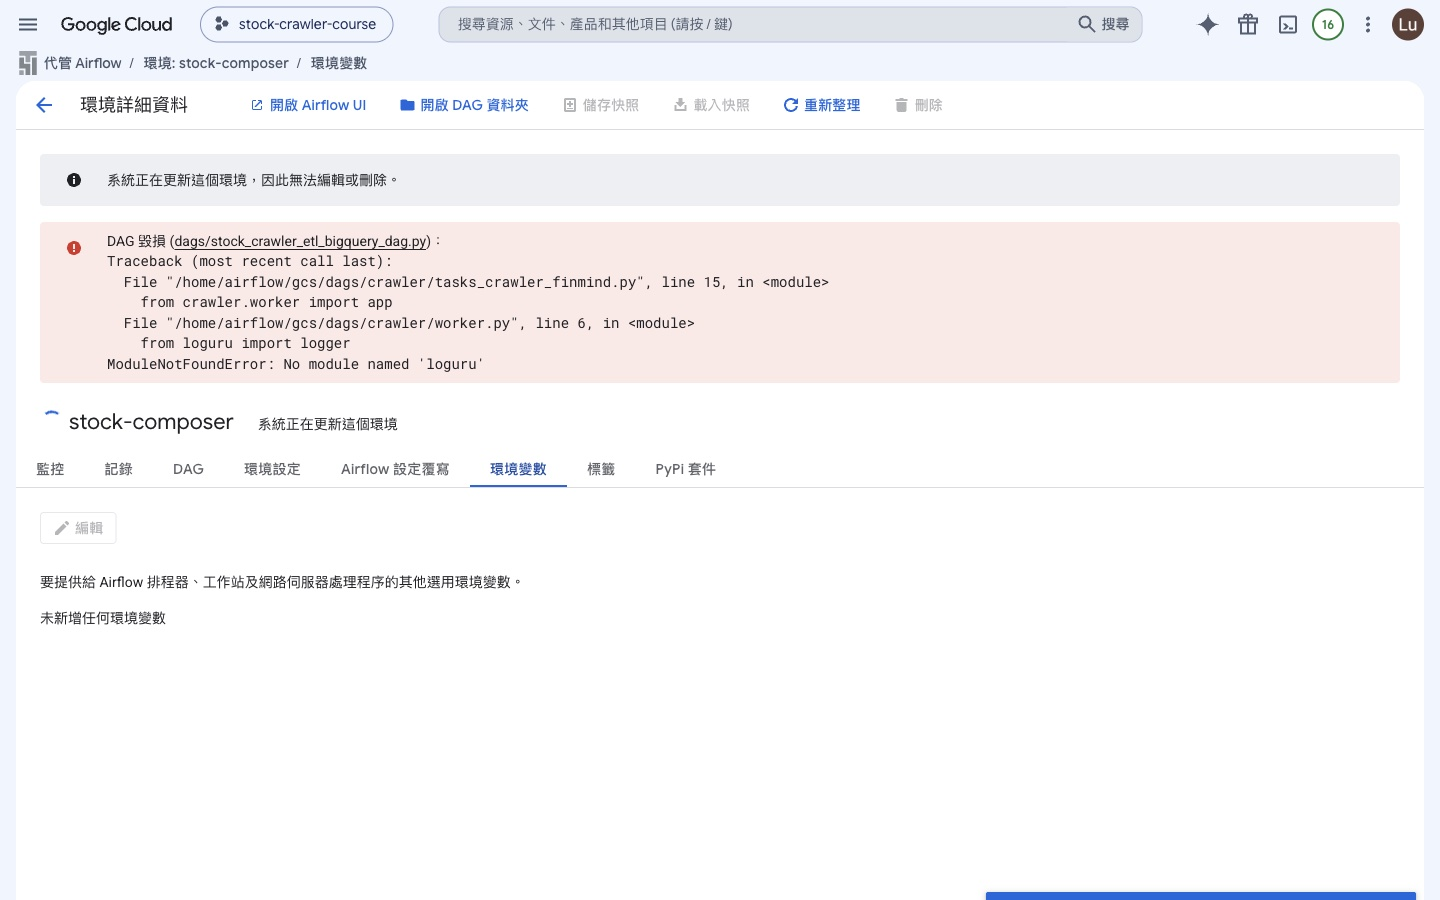
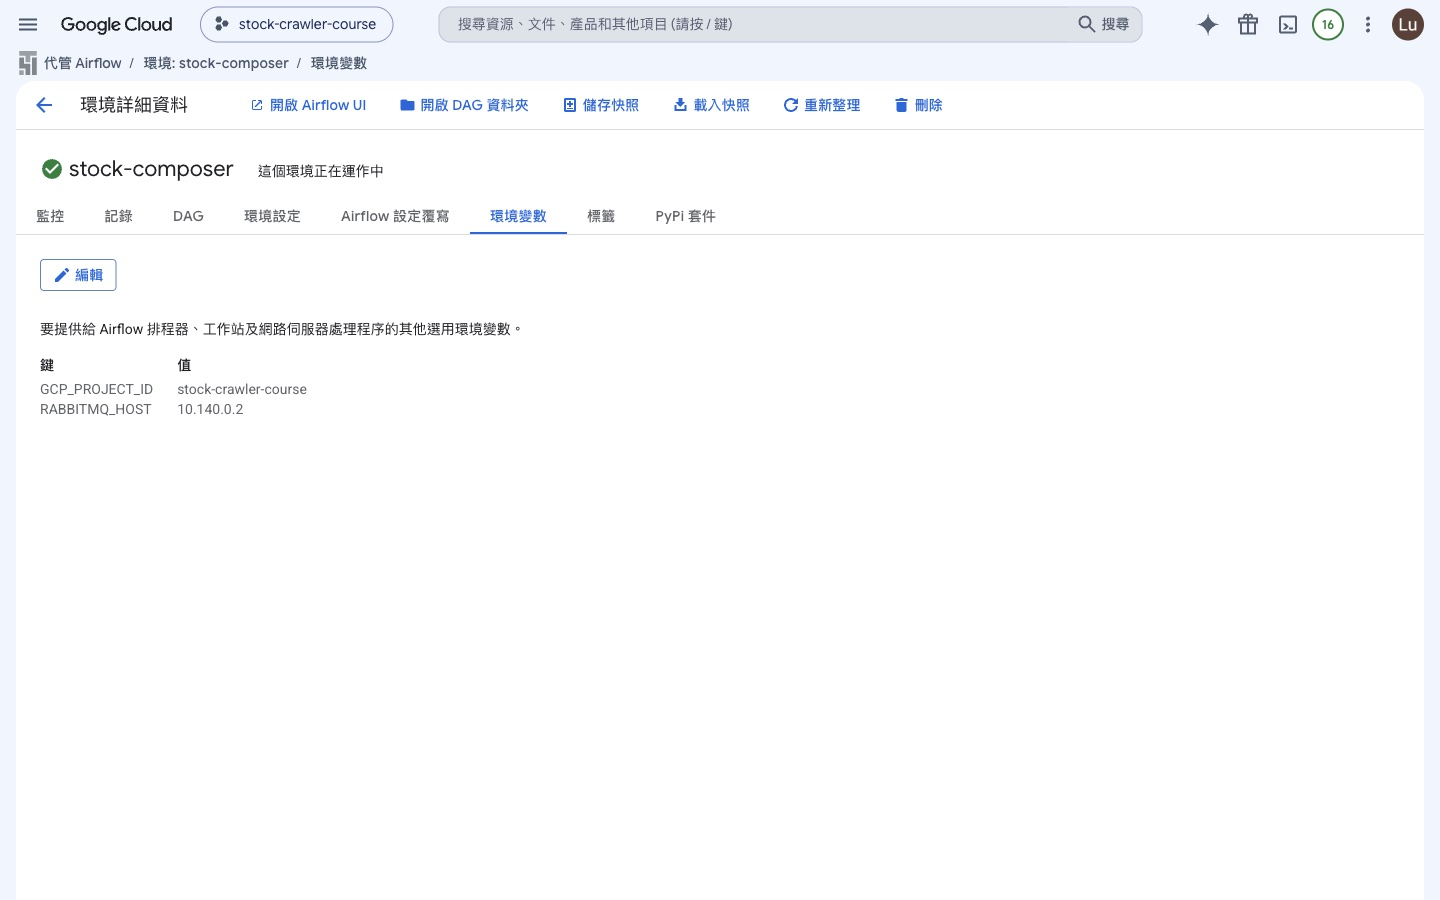
docs: 手冊17 Part C 改走 VPC attachment 正門——零開門、零查 IP，全流程重新實測通過
- C-2 建立指令加 --network=default --subnetwork=default（掛 VPC attachment）,
  說明段與表單對照表、網路區塊截圖同步補上
- C-5 環境變數 6 個砍到 2 個（RABBITMQ_HOST=VM1 內部 IP 查值、GCP_PROJECT_ID）,
  MYSQL_* 全刪——用到它們的程式只在 VM2 worker 執行, DAG 不連 MySQL
- C-6 從「開兩扇門」重寫為「驗證網路」: 內部互連走 default-allow-internal,
  探測 DAG 瘦身為單一 try_rabbitmq 驗證工具; 舊路（公網探測 IP＋白名單）
  與 Cloud SQL Connector 標準做法收進附註
- C-8 拿掉防火牆刪除步驟（沒開過門）; attachment 隨環境刪除自動清除
- 排錯表、開工佔位符註記、圖10 說明、三件事、本章總結同步對齊
- 實測紀錄: 零開門 MQ_CONNECT=OK; 主線 DAG success; raw +3485、stage/app 穩定;
  環境已刪

diff --git a/課程手冊/課程手冊17 - 每日資料線_Airflow排程與Composer.md b/課程手冊/課程手冊17 - 每日資料線_Airflow排程與Composer.md
@@ -55,7 +55,7 @@ flowchart TD
 
 ## 一步一步
 
-> 指令裡的 `{...}` 是佔位符，換值時大括號要一起刪（第 16 章開工段的同一條慣例）。本章 C-6 的探測 DAG 是 Python 檔，裡面的佔位符同樣要換乾淨再上傳。
+> 指令裡的 `{...}` 是佔位符，換值時大括號要一起刪（第 16 章開工段的同一條慣例）。本章 C-6 的探測 DAG 是 Python 檔，裡面的 `{VM1內部IP}` 佔位符同樣要換乾淨再上傳。
 
 開工前先喚醒系統。照第 16 章收工段的 SOP，外加一步驗證：
 
@@ -272,7 +272,7 @@ bq query --nouse_legacy_sql \
 
 把 Part B 剛跑過的 `stock_bigquery_etl_dag` 原封不動搬到 Composer 上執行一次，用來對照託管與自架的差別。**做完立刻刪除環境**，它按小時計費。
 
-> 雙寫版的 DAG 第一個 task 要發任務到 VM1 的 RabbitMQ——Composer 跑在 Google 託管的環境裡，不在你的 VPC 內，所以除了 Cloud SQL 的授權網路（C-6），**RabbitMQ 的 5672 也要對 Composer 的對外 IP 開一條防火牆規則**（C-6 一併處理，示範完刪掉）。這是「託管服務在你網路外面」帶來的第二個網路功課。
+> 雙寫版的 DAG 第一個 task 要發任務到 VM1 的 RabbitMQ——Composer 跑在 Google 託管的環境裡，本來不在你的 VPC 內。這個網路功課用「**建立環境時掛上你的 VPC**」（C-2 的 `--network`/`--subnetwork` 兩個參數）一次解決：掛上之後 Composer 打過來的流量走你子網路的**內部 IP**，`default-allow-internal` 天生放行——不用查它的對外 IP、不用開任何防火牆。C-6 只剩驗證。
 
 #### Composer：託管版的 Airflow
 
@@ -352,8 +352,11 @@ gcloud composer environments create stock-composer \
   --image-version=composer-3-airflow-2 \
   --environment-size=small \
   --service-account={專案編號}-compute@developer.gserviceaccount.com \
+  --network=default --subnetwork=default \
   --async
 ```
+
+`--network=default --subnetwork=default` 是本章的關鍵參數：**把環境掛進你的 VPC**（Composer 會在你的專案建立一個 network attachment，並在子網路裡保留 4 個 IP）。掛上之後，DAG 連你 VPC 裡的服務（VM1 的 RabbitMQ）走**內部網路**，跟 VM2 連 VM1 是同一條路——這讓 C-6 的網路功課幾乎消失。不帶這兩個參數的話，Composer 從公網連進來、來源 IP 是 Google 自動配發且查不到的值，就得走「探測 IP＋開防火牆白名單」的繞路（C-6 附註）。
 
 `--async` 讓指令立刻返回，環境在背景建立，需要 20-30 分鐘——它在準備一整套跑在 GKE 上的 Airflow。查進度：
 
@@ -374,12 +377,17 @@ gcloud composer environments list --locations=asia-east1
 | 映像檔版本 | `composer-3-airflow-2.x`（安全） | 保持 **airflow-2** 開頭的 | `--image-version` |
 | 服務帳戶 | 需選擇 | Compute Engine 預設服務帳戶 | `--service-account` |
 | 環境資源 | 小 | 保持「小」 | `--environment-size=small` |
+| 網路設定 | 未掛 VPC | 選 `default` 網路與子網路 | `--network` / `--subnetwork` |
 
 **映像檔版本下拉是本表單最大的坑**：Airflow 3 的映像排在最上面，預設值雖然是 airflow-2，手滑選到 airflow-3 課程 DAG 一上傳就 import error（Part C 開頭的 Airflow 2/3 對照表）：
 
 ![映像版本下拉](images/ch17/13-Console映像版本下拉Airflow3陷阱.jpg)
 
 ![表單填好的樣子](images/ch17/14-Console建立表單填好.jpg)
+
+表單的「網路設定」區塊就是 `--network`/`--subnetwork` 的表單版——點「顯示網路設定」展開後，選 `default` 網路與子網路：
+
+![建立表單網路區塊](images/ch17/19-Console建立表單網路區塊.jpg)
 
 STATE 從 `CREATING` 變成 `RUNNING` 才算建好。建好之後 Console 上（≡ →「代管 Airflow」）看得到這一列——服務版本 3、Airflow 版本、以及右邊三個入口：**Airflow 網頁伺服器**（C-3 那個網址）、**DAG 清單**、**DAGs 資料夾**（就是下一步要上傳的那個 bucket）：
 
@@ -481,21 +489,17 @@ gcloud composer environments update stock-composer --location=asia-east1 \
 
 #### C-5 套用環境變數
 
-DAG 要發任務到 RabbitMQ、連 Cloud SQL、知道 BigQuery 專案，這些值在自架環境是 `.env` 給的，在 Composer 是環境設定的一部分。四個值照第 16 章 Part E 的紀律**全部用指令查、不手抄**——先取進 shell 變數（只存在這個終端機、不落地成檔案），再一次餵給 update：
+DAG 在 Composer 上需要的環境變數只有**兩個**：發任務要知道 RabbitMQ 在哪（`RABBITMQ_HOST`）、transform 要知道 BigQuery 專案（`GCP_PROJECT_ID`）。自架環境 `.env` 裡的 MYSQL_* 這裡**不用設**——用到它們的程式碼（`upload_data_to_mysql`）只在 VM2 的 worker 上執行，DAG 從頭到尾不連 MySQL。
+
+兩個值照第 16 章 Part E 的紀律用指令查、不手抄。**`RABBITMQ_HOST` 填 VM1 的內部 IP**——C-2 掛了 VPC，Composer 連過來走內部網路，跟 VM2 連 VM1 是同一顆 IP：
 
 ```bash
-# RABBITMQ_HOST 要的是 VM1 的「外部」IP——Composer 不在你的 VPC 裡，內部 IP 對它不通
-# （natIP 就是外部那顆；這點跟第 16 章 VM2 用內部 IP 相反，網路位置不同）
-VM1_IP=$(gcloud compute instances describe stock-crawler-vm --zone=asia-east1-b --format='value(networkInterfaces[0].accessConfigs[0].natIP)')
-SQL_IP=$(gcloud sql instances describe stock-mysql --format='value(ipAddresses[0].ipAddress)')
-DB_PW=$(gcloud secrets versions access latest --secret=mysql-password)
+RMQ=$(gcloud compute instances describe stock-crawler-vm --zone=asia-east1-b --format='value(networkInterfaces[0].networkIP)')
 PROJ=$(gcloud config get-value project)
 
 gcloud composer environments update stock-composer --location=asia-east1 \
-  --update-env-variables=RABBITMQ_HOST=$VM1_IP,MYSQL_HOST=$SQL_IP,MYSQL_ACCOUNT=root,MYSQL_PASSWORD=$DB_PW,MYSQL_PORT=3306,GCP_PROJECT_ID=$PROJ
+  --update-env-variables=RABBITMQ_HOST=$RMQ,GCP_PROJECT_ID=$PROJ
 ```
-
-密碼向 Secret Manager 取（第 16 章 D-4 的同一個來源），不寫死在指令裡。順帶一個提醒：`--update-env-variables` 用逗號分隔多個變數——密碼含逗號或等號會把這個參數切壞，這是「密碼只用大小寫英數字」規範的又一個理由。
 
 這是一次環境更新，要等幾分鐘，不是改完立刻生效。設定結果在環境詳情頁的「**環境變數**」分頁看得到（在這頁用「編輯」改也等效，一樣觸發環境更新）：
 
@@ -503,116 +507,57 @@ gcloud composer environments update stock-composer --location=asia-east1 \
 
 漏掉 `GCP_PROJECT_ID` 的話，`config.py` 拿到空字串，兩個 transform task 會因為表名少了專案段（`` `.stage.stock_price_daily` ``）而報 SQL 語法錯誤——task 紅掉，補上環境變數重觸發即可。（雙寫那半邊不受 Composer 的變數影響：實際寫入的是 VM2 的 worker，它讀的是自己 `.env` 裡的專案 ID。）
 
-#### C-6 讓 Composer 連得到 Cloud SQL 與 RabbitMQ（開兩扇門）
+#### C-6 驗證網路：Composer 連得到 RabbitMQ 嗎
 
-先一句話講清楚這一步在做什麼：**Composer 是你 VPC 外面的「外人」**，而 DAG 要連的兩個服務都只對認識的 IP 開門——Cloud SQL 的 3306 認授權網路、VM1 RabbitMQ 的 5672 認防火牆規則。自架 Airflow 沒這個問題（它就在 VM1 上）；換 Composer 執行，來源 IP 變成一個你不知道的值。所以這一步三個動作：**① 問出 Composer 的 IP → ② 把它加進兩張門禁名單 → ③ 驗證門真的開了**。
-
-**為什麼 IP 要用「問」的**：Public IP 環境的對外連線走 Google **自動配發**的公有 IP——`environments describe` 沒有這個欄位，Console 環境頁也看不到。官方要「可預知的固定 IP」的做法是把環境接進自己的 VPC 改 Private IP，超出本示範的範圍。也因為是自動配發，**這顆 IP 不保證永遠不變**——示範環境活不過一小時無妨，真實系統要走 Private IP 的路。
-
-**動作①：用探測 DAG 讓 Composer 自己說出 IP**。這支一次性 DAG 有三個 task：第一個開 `ifconfig.me` 問自己的對外 IP，後兩個分別對 Cloud SQL 的 3306 與 RabbitMQ 的 5672 做純 TCP 連線測試——它同時就是動作③要重複使用的驗證工具。
+C-2 掛了 VPC 之後，這一節**沒有任何門要開**——Composer 打過來的是你子網路的內部流量，`default-allow-internal` 天生放行 5672；Cloud SQL 更是從頭到尾不關 DAG 的事（連它的是 VM2 的 worker，第 16 章就授權好了）。但「應該通」和「真的通」是兩回事，用一支一次性的探測 DAG 驗證：
 
 ```python
-# probe_network_dag.py：查 Composer 的對外 IP，並測試 Cloud SQL 與 RabbitMQ 連線
+# probe_network_dag.py：驗證 Composer 經 VPC attachment 連得到 VM1 的 RabbitMQ
 from datetime import datetime
 
 from airflow import DAG
 from airflow.operators.python import PythonOperator
 
 
-def egress_ip():
-    import urllib.request
-
-    ip = urllib.request.urlopen("https://ifconfig.me/ip", timeout=20).read().decode()
-    print(f"EGRESS_IP={ip}")
-    return ip
-
-
-def _probe(label, host, port):
+def try_rabbitmq():
     import socket
 
     s = socket.socket()
     s.settimeout(15)
     try:
-        s.connect((host, port))
-        print(f"{label}=OK")
+        s.connect(("{VM1內部IP}", 5672))
+        print("MQ_CONNECT=OK")
     except Exception as e:
-        print(f"{label}=FAIL {type(e).__name__}: {e}")
+        print(f"MQ_CONNECT=FAIL {type(e).__name__}: {e}")
     finally:
         s.close()
 
 
-def try_mysql():
-    _probe("TCP_CONNECT", "{CloudSQL 公用 IP}", 3306)
-
-
-def try_rabbitmq():
-    _probe("MQ_CONNECT", "{VM1 外部 IP}", 5672)
-
-
 with DAG("probe_network_dag", start_date=datetime(2024, 1, 1),
          schedule_interval=None, catchup=False) as dag:
-    PythonOperator(task_id="egress_ip", python_callable=egress_ip) >> \
-        PythonOperator(task_id="try_mysql", python_callable=try_mysql) >> \
-        PythonOperator(task_id="try_rabbitmq", python_callable=try_rabbitmq)
+    PythonOperator(task_id="try_rabbitmq", python_callable=try_rabbitmq)
 ```
 
-兩個 try 都只做 TCP 連線測試，不需要帳號密碼——連得上代表網路層通了，連不上會是逾時。把網路問題跟帳號密碼問題分開驗證，排錯時才知道是哪一層出事。
+只做 TCP 連線測試、不帶帳號密碼——把「網路通不通」跟「帳密對不對」分開驗證。注意它**連線失敗 task 也不會紅**（結果印進 log，不丟例外），`OK` 或 `FAIL` 要到 log 裡看。
 
-注意這支 DAG 的設計：**連線失敗 task 也不會紅**——`_probe` 把結果印進 log 而不是丟例外，所以 UI 上兩次 run 都是綠的，`FAIL` 或 `OK` 要到 log 裡看（下面的 `gcloud logging read`）。它是量測工具，不是驗收關卡：
-
-![探測 DAG 頁面](images/ch17/18-Composer探測DAG頁.jpg)
-
-上傳、觸發，然後讀 log。**Composer 3 的任務 log 送到 Cloud Logging，不放在 bucket 裡**：
+上傳、觸發、讀 log。**Composer 3 的任務 log 送到 Cloud Logging，不放在 bucket 裡**：
 
 ```bash
+gcloud storage cp probe_network_dag.py {你的DAGs bucket}/
+
 gcloud composer environments run stock-composer --location=asia-east1 \
   dags trigger -- probe_network_dag
 
-# 三個 task 的輸出各讀一次，過濾字串要跟程式裡印的關鍵字對上
-gcloud logging read 'resource.type="cloud_composer_environment" AND textPayload:"EGRESS_IP="' \
-  --limit=1 --freshness=10m --format="value(textPayload)"
-
-gcloud logging read 'resource.type="cloud_composer_environment" AND textPayload:"TCP_CONNECT="' \
-  --limit=1 --freshness=10m --format="value(textPayload)"
-
 gcloud logging read 'resource.type="cloud_composer_environment" AND textPayload:"MQ_CONNECT="' \
   --limit=1 --freshness=10m --format="value(textPayload)"
+# MQ_CONNECT=OK
 ```
 
-第一次的結果會長這樣——IP 到手，兩個連線測試都不通（門還沒開，這是預期結果，不是壞掉）：
-
-```
-EGRESS_IP={Composer對外IP}
-TCP_CONNECT=FAIL TimeoutError: timed out
-MQ_CONNECT=FAIL TimeoutError: timed out
-```
-
-**動作②：拿這個 IP 開兩扇門。** 門一是 Cloud SQL 的授權網路，做法跟第 16 章給兩台 VM 授權完全一樣：
-
-```bash
-gcloud sql instances patch stock-mysql \
-  --authorized-networks={Composer對外IP}/32,{VM1外部IP}/32,{VM2外部IP}/32
-```
-
-門二是**只對 Composer IP 放行 5672** 的防火牆規則，讓 `send_crawler_tasks` 發得進 VM1 的 RabbitMQ。第 14 章「5672 不對公網」的原則沒有破——來源限縮在單一 IP，而且示範完就刪（C-8 一併收掉）：
-
-```bash
-gcloud compute firewall-rules create allow-composer-rabbitmq \
-  --allow=tcp:5672 --source-ranges={Composer對外IP}/32 --target-tags=stock-web
-```
-
-**動作③：重跑探測 DAG 當驗證。** 再觸發一次 `probe_network_dag`、重讀兩條 log，`TCP_CONNECT` 與 `MQ_CONNECT` 從 `FAIL TimeoutError` 變成 `OK`——兩扇門都開了，才輪到 C-7 的主線 DAG。這就是探測 DAG 的第二個用途：**同一支工具，第一次問路，之後每次驗收**；日後懷疑網路又不通（例如 IP 被重新配發），重跑它一次就有答案。
+`OK` 就往 C-7 走。`FAIL TimeoutError` 的話回頭檢查兩件事：C-2 建立時有沒有帶 `--network`/`--subnetwork`（環境詳情頁「環境設定」分頁看得到網路欄位）、探測 DAG 裡填的是不是 VM1 的**內部** IP（10.x 開頭）。
 
 > 重新觸發之後如果讀到的還是上一次的結果，是 Cloud Logging 還沒收到新 log。`--freshness` 縮短到 `2m` 再讀一次，或等一分鐘。
 
-**真實系統不玩「猜 IP」——Cloud SQL 這扇門有標準解法。** 業界連 Cloud SQL 的標準做法是 **Cloud SQL Connector**（Python 是 `cloud-sql-python-connector` 套件）或 Cloud SQL Auth Proxy：程式改連「執行個體連線名稱」（`專案:區域:實例`），由 Google 端的代理端點驗 **IAM 身分**、走 TLS 加密——**授權網路、防火牆、SSL 憑證三樣全都不用管**，從哪個 IP 連過來都無所謂。Airflow 還有官方的 `CloudSQLExecuteQueryOperator`（`gcpcloudsql://` 連線），Hook 會自動起一個臨時 proxy。
-
-那課程為什麼還用 IP 白名單？兩個理由：
-
-1. **程式碼一行不改的原則**：整門課的 `crawler/` 都用「host:port 連線字串」，換 Connector 要改連線建立方式、加裝套件——為了示範環境動主線程式碼不划算。真實系統從第一天就用 Connector，就沒有這個包袱。
-2. **RabbitMQ 那扇門沒有等效品**：Connector 只救 Cloud SQL——RabbitMQ 是你自己 VM 上的服務，Composer 要連它，防火牆白名單躲不掉，探測 DAG 問 IP 這一步仍然需要。
-
-一句話的取捨表：**只連 Cloud SQL → 用 Connector，整個 C-6 的 IP 功課消失；還要連自家 VM 上的服務（本課程的 RabbitMQ）→ IP 白名單跑不掉**。
+**附註——沒掛 VPC 的環境怎麼辦（舊路，並且認識標準做法）**：環境沒掛 VPC 時，Composer 從公網連進來，來源 IP 是 Google 自動配發的值，`describe` 與 Console 都查不到、也不保證固定——只能用探測 DAG 自問（加一個開 `ifconfig.me` 的 task）、再把問到的 IP 加進防火牆白名單，示範完刪規則。這條繞路就是「沒走正門」的代價。至於連 Cloud SQL 的正門則是 **Cloud SQL Connector**（`cloud-sql-python-connector`，IAM 授權＋TLS，完全不需要 IP 白名單）——本課程的 DAG 不連 Cloud SQL 所以用不上，真實系統要連就用它，不要玩 IP。
 
 #### C-7 觸發並驗證
 
@@ -635,19 +580,18 @@ gcloud composer environments run stock-composer --location=asia-east1 \
 
 ![Composer 上的 DAG 六個 task 全綠](images/ch17/11-Composer-DAG六task全綠.jpg)
 
-左側的格狀圖順便把 C-6 那組對照收在同一張畫面裡：**授權前**那次 run 的 `send_crawler_tasks` 是紅色 failed（連不到 VM1 的 5672），它下游四個 task 全是橘色的 upstream_failed；**授權後**這次整排綠。「網路沒開」在 Airflow 上長這個樣子：
+順帶認識「網路沒通」在 Airflow 上的長相（下圖來自一個沒掛 VPC、也還沒開白名單的環境）：`send_crawler_tasks` 紅色 failed（連不到 VM1 的 5672），下游四個 task 全是橘色的 upstream_failed；網路接對之後整排綠。C-6 的驗證先做，就是為了不讓主線 DAG 死在這裡：
 
 ![授權前後兩次 run 的對照](images/ch17/10-Composer-Airflow介面兩次run對照.jpg)
 
-#### C-8 刪除環境（連同臨時防火牆規則）
+#### C-8 刪除環境
 
 ```bash
 gcloud composer environments delete stock-composer --location=asia-east1 --quiet
 gcloud composer environments list --locations=asia-east1   # 清單空了才是真的停止計費
-
-# C-6 開的臨時規則一併收掉，5672 回到完全不對外
-gcloud compute firewall-rules delete allow-composer-rabbitmq --quiet
 ```
+
+環境刪除時，C-2 掛 VPC 用的 network attachment 會一併自動刪除——沒有殘留的網路資源要收。
 
 **Composer 沒有「停機」這個選項。** VM 可以 `stop`、Cloud SQL 可以設 `activation-policy=NEVER`、Cloud Run 沒流量自動縮到零——它們停下來之後資料和設定都還在，要用再開回來。Composer 只有 create、update、delete 三種操作，環境存在就計費，唯一的省錢方式是刪掉，而刪掉就什麼都不留。
 
@@ -659,7 +603,7 @@ gcloud compute firewall-rules delete allow-composer-rabbitmq --quiet
 
 **二、「環境裡有什麼」變成要透過它的介面管理。** 自架時 `docker build` 一次處理完的事——程式碼進 image、套件裝進 image、環境變數寫在 compose——在 Composer 上拆成三件獨立的事：上傳程式碼到 bucket、在設定頁裝套件、用 update 指令改環境變數。每一件都是一次操作，套件與環境變數還各自要等一次環境更新。這是託管服務的隱藏成本：省下維護機器的力氣，換來一套要學的管理介面。
 
-**三、「DAG 兩邊通用」要講得精確一點。** 編排邏輯——DAG 的結構、任務依賴、排程設定、Operator 用法——完全通用，這次連一行都沒改。要各自準備的是執行環境：程式碼怎麼進去、套件怎麼裝、連線設定怎麼給、對外 IP 怎麼授權。評估要不要換到託管服務時，會花時間的是後面那一半。
+**三、「DAG 兩邊通用」要講得精確一點。** 編排邏輯——DAG 的結構、任務依賴、排程設定、Operator 用法——完全通用，這次連一行都沒改。要各自準備的是執行環境：程式碼怎麼進去、套件怎麼裝、連線設定怎麼給、網路怎麼接（本章用掛 VPC 一次解決）。評估要不要換到託管服務時，會花時間的是後面那一半。
 
 ## 團體專案上雲：本章設定的團隊版
 
@@ -801,8 +745,7 @@ sudo docker exec airflow-webserver airflow users list
 | DAG 上傳了但 `dags list` 看不到 | DAG import 失敗——`crawler` 模組沒一起上傳，或用到映像沒有的套件（例如 loguru） | `dags list-import-errors` 看 traceback；缺模組就 `gcloud storage cp -r crawler {bucket}/dags/`、缺套件就 `--update-pypi-package` 補裝（C-4 的流程） |
 | import error 指向 `airflow.operators.python_operator` 這類路徑 | 環境映像選到 **Airflow 3**（建立表單下拉最上面就是 airflow-3 的映像），1.x 相容 import 路徑在 3 已移除 | Airflow 大版本不能原地換——刪掉環境重建，映像認明 `composer-3-airflow-2` 開頭（Part C 開頭的版本軸小節） |
 | Composer 上任務報 `Access Denied: Project your-project-id` | 沒設 `GCP_PROJECT_ID` 環境變數，`config.py` 退回預設值 | `environments update --update-env-variables=GCP_PROJECT_ID=...` |
-| Composer 上連 Cloud SQL 逾時 | 授權網路沒有 Composer 的對外 IP | 用探測 DAG 查出對外 IP（C-6），加進 `authorized-networks` |
-| Composer 上 `send_crawler_tasks` 連 RabbitMQ 逾時 | 5672 防火牆規則沒開，或 `RABBITMQ_HOST` 填了內部 IP（Composer 不在你的 VPC 裡） | 照 C-6 開 `allow-composer-rabbitmq`（來源限 Composer IP）；環境變數改 VM1 外部 IP |
+| Composer 上 `send_crawler_tasks` 連 RabbitMQ 逾時 | 環境沒掛 VPC（C-2 漏了 `--network`/`--subnetwork`），或 `RABBITMQ_HOST` 沒填 VM1 內部 IP | 環境詳情「環境設定」分頁確認網路欄位；沒掛就重建（attachment 不能事後隨意補），變數照 C-5 用內部 IP |
 | 找不到 Composer 的任務 log | Composer 3 的 log 送到 Cloud Logging，不在 bucket | `gcloud logging read 'resource.type="cloud_composer_environment"'` |
 
 ## 本章總結
@@ -810,7 +753,7 @@ sudo docker exec airflow-webserver airflow users list
 - 金鑰檔只有 GCP 外面的程式才需要；VM 上的程式用自己的服務帳戶身分，不需要金鑰
 - 雙寫讓「搬資料」的排程工作消失；每日資料線剩兩件事：觸發爬蟲雙寫、重算分析層——排程真正在養的是 app 這種不會自己更新的實體表
 - 完整資料線：排程發任務 → worker 雙寫（Cloud SQL＋BigQuery raw）→ transform 重算（stage／app）→ Looker Studio
-- Composer 是託管版 Airflow：編排邏輯兩邊通用（同一支 DAG 一行都不用改），要各自準備的是執行環境——程式碼上傳、套件安裝、連線設定、對外 IP 授權（雙寫版連 RabbitMQ 也要授權，託管服務在你的網路外面）
+- Composer 是託管版 Airflow：編排邏輯兩邊通用（同一支 DAG 一行都不用改），要各自準備的是執行環境——程式碼上傳、套件安裝、環境變數、網路（建立時掛上你的 VPC，內部互連就通，不用查 IP 開白名單）
 - Composer 沒有停機選項，只有 create／update／delete，環境存在就計費——示範完必須刪除
 - 資源清理照順序刪：費用高的先刪，關閉整個專案是最後手段（30 天內可還原）
 
